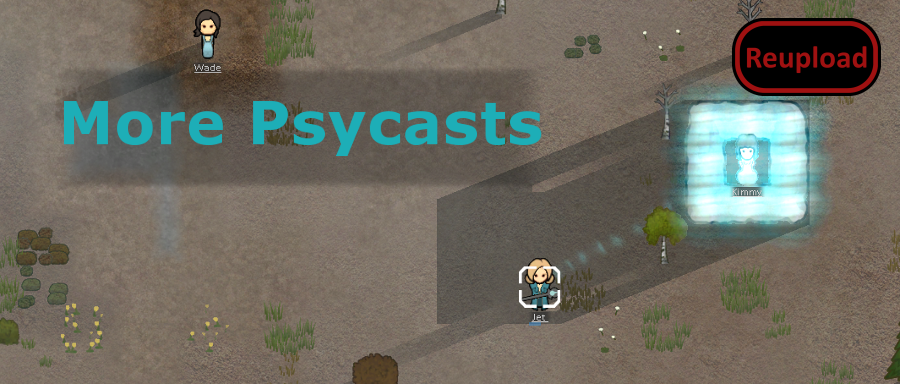
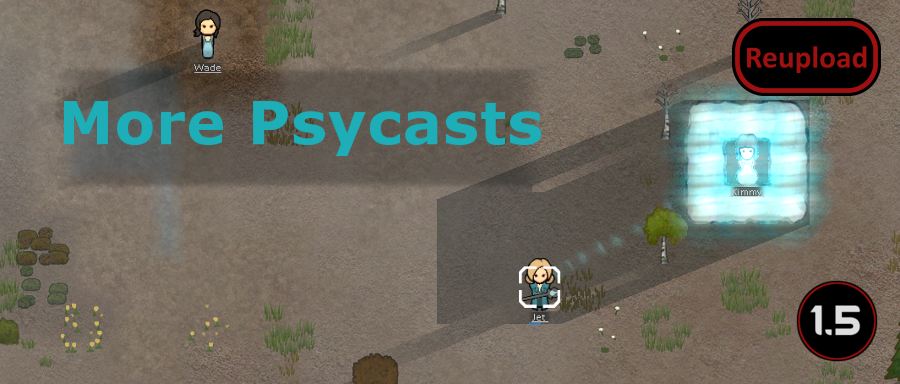
Mod updated for 1.5 and passed autotests

Changed region(s): [[0.8711, 0.7188, 0.9956, 0.9375]]

diff --git a/README.md b/README.md
@@ -31,11 +31,13 @@ Silence Pulse (level 5, 40 entropy) - Silences targets in an area, preventing th
 
 -  See if the the error persists if you just have this mod and its requirements active.
 -  If not, try adding your other mods until it happens again.
--  Post your error-log using https://steamcommunity.com/workshop/filedetails/?id=818773962]HugsLib and command Ctrl+F12
+-  Post your error-log using https://steamcommunity.com/workshop/filedetails/?id=818773962]HugsLib or the standalone https://steamcommunity.com/sharedfiles/filedetails/?id=2873415404]Uploader and command Ctrl+F12
 -  For best support, please use the Discord-channel for error-reporting.
 -  Do not report errors by making a discussion-thread, I get no notification of that.
 -  If you have the solution for a problem, please post it to the GitHub repository.
+-  Use https://github.com/RimSort/RimSort/releases/latest]RimSort to sort your mods
 
 
 
+https://steamcommunity.com/sharedfiles/filedetails/changelog/2036349987]![Image](https://img.shields.io/github/v/release/emipa606/MorePsycasts?label=latest%20version&style=plastic&color=9f1111&labelColor=black)
 
